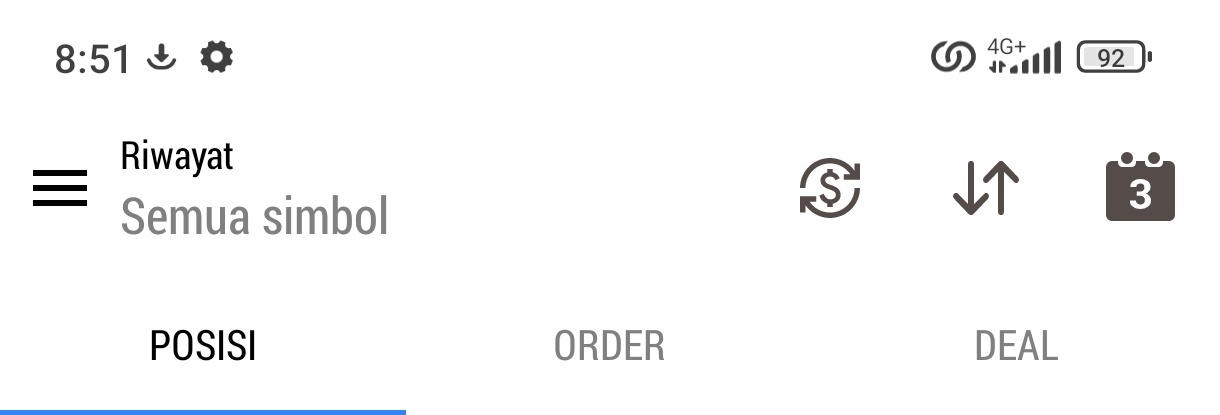
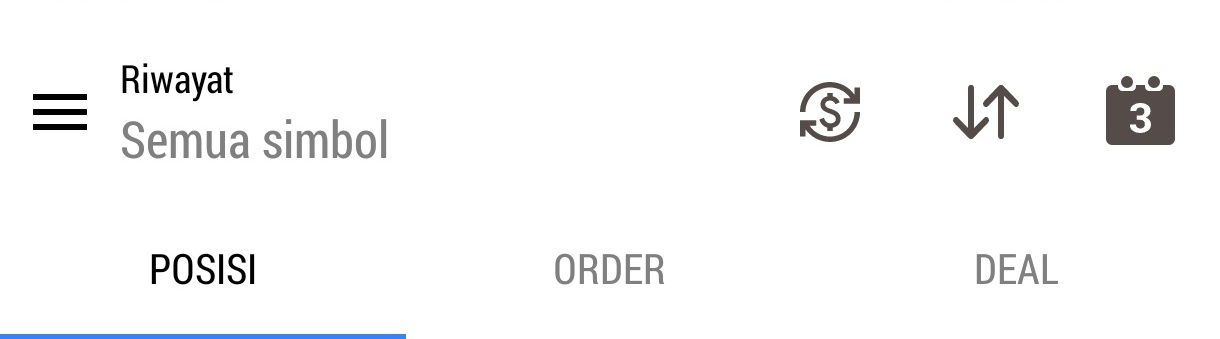
Crop phone chrome from header/footer photos, symbol dropdown, BTC price decimals
Re-cropped assets/riwayat-top.jpg and riwayat-bottom.jpg to remove the
Android status bar (clock/notifications/signal/battery) from the top
and the 3-button Android navigation bar from the bottom, so the mockup
starts right at "Riwayat" and ends right after the Quote/Chart/Trade/
Riwayat/Pesan nav row — matching the user's reference screenshot.
#photowrap's aspect-ratio was recalculated (1220:2454) to match the new
combined asset height.

Simbol field in the transaction form is now a dropdown with exactly two
choices, XAUUSDc and BTCUSDc, instead of free text — avoids typos and
matches how the tool already treats these as the two supported
contracts (gold auto-calc vs. BTC manual PnL override).

Open→close price formatting is now symbol-aware: BTCUSDc shows 2
decimal places instead of the usual 3, since that's how it actually
gets quoted.

Claude-Session: https://claude.ai/code/session_017QxHoSEaER1TbG6C5WFVkT

diff --git a/index.html b/index.html
@@ -49,7 +49,7 @@ html,body{background:radial-gradient(ellipse at top left,#1a0830 0%,#08000f 55%,
    paten/fixed, hanya area tengah (ringkasan+daftar transaksi) yang discroll —
    persis seperti aplikasi MT5 aslinya. Tinggi dikunci mengikuti rasio foto
    asli (aspect-ratio) supaya selalu setinggi "1 layar hp". */
-#photowrap{position:relative;width:406.667px;aspect-ratio:1220/2712;background:#fff;display:flex;flex-direction:column;overflow:hidden;}
+#photowrap{position:relative;width:406.667px;aspect-ratio:1220/2454;background:#fff;display:flex;flex-direction:column;overflow:hidden;}
 #photowrap>img{display:block;width:100%;height:auto;flex-shrink:0;user-select:none;-webkit-user-drag:none;pointer-events:none;}
 #htmlZone{flex:1;min-height:0;overflow-y:auto;-webkit-overflow-scrolling:touch;}
 /* mode ekspor (dipakai sesaat sebelum html2canvas): lepas batas tinggi supaya
@@ -179,7 +179,7 @@ body.previewmode #ctrlbar,body.previewmode #projectbar,body.previewmode .hint{di
     <button class="dirbtn sell" id="tfSellBtn" onclick="tfSetDir('sell')">SELL</button>
   </div>
   <div class="grid2">
-    <div><span class="fieldlbl">Simbol</span><input id="tfSym" class="fld" type="text"></div>
+    <div><span class="fieldlbl">Simbol</span><select id="tfSym" class="fld"><option value="XAUUSDc">XAUUSDc</option><option value="BTCUSDc">BTCUSDc</option></select></div>
     <div><span class="fieldlbl">Lot</span><input id="tfLot" class="fld" type="number" step="0.01" oninput="tfUpdatePreview()"></div>
   </div>
   <div class="grid2" style="margin-top:8px;">
@@ -312,7 +312,9 @@ function formatMoney(value,decimals,forceSign){
   const sign=neg?'-':(forceSign?'+':'');
   return sign+intPart+(decimals>0?'.'+parts[1]:'');
 }
-function formatPriceNum(value){return formatMoney(value,3,false);}
+/* BTCUSDc dipakai 2 digit desimal, simbol lain (XAUUSDc dkk) 3 digit */
+function priceDecimals(sym){return /BTC/i.test(sym||'')?2:3;}
+function formatPriceNum(value,sym){return formatMoney(value,priceDecimals(sym),false);}
 
 function calcPnl(dir,lot,open,close){
   const diff=dir==='buy'?(close-open):(open-close);
@@ -493,7 +495,7 @@ function renderTrades(){
     const pnlColor=pnl<0?GS.negColor:GS.posColor;
     const symSpan=spanTag(t.sym,GS.sym,false,`class="symtxt" onclick="openSymEdit(${i})"`);
     const dirSpan=spanTag((t.dir==='buy'?'buy':'sell')+' '+Number(t.lot).toFixed(2),Object.assign({},GS.dir,{color:dirColor}),false);
-    const priceSpan=spanTag(formatPriceNum(t.open)+'  →  '+formatPriceNum(t.close),GS.price,false);
+    const priceSpan=spanTag(formatPriceNum(t.open,t.sym)+'  →  '+formatPriceNum(t.close,t.sym),GS.price,false);
     const dateSpan=spanTag(t.time,GS.date,true);
     const pnlSpan=spanTag(formatMoney(pnl,2,true),Object.assign({},GS.pnl,{color:pnlColor}),true);
     return `<div class="trow"><div class="tbar ${bar}"></div><div class="tc"><div class="tleft"><div class="tsl">${symSpan}<span class="tcomma">,</span>${dirSpan}</div><div class="tprices">${priceSpan}</div></div><div class="tright"><div class="tdate">${dateSpan}</div><div class="tpnl">${pnlSpan}</div></div></div><div class="rowbtns"><button class="editbtn" onclick="openTradeForm('${t.dir}',${i})">✎</button><button class="copybtn" onclick="copyT(${i})">⧉</button><button class="delbtn" onclick="delT(${i})">✕</button></div></div>`;
